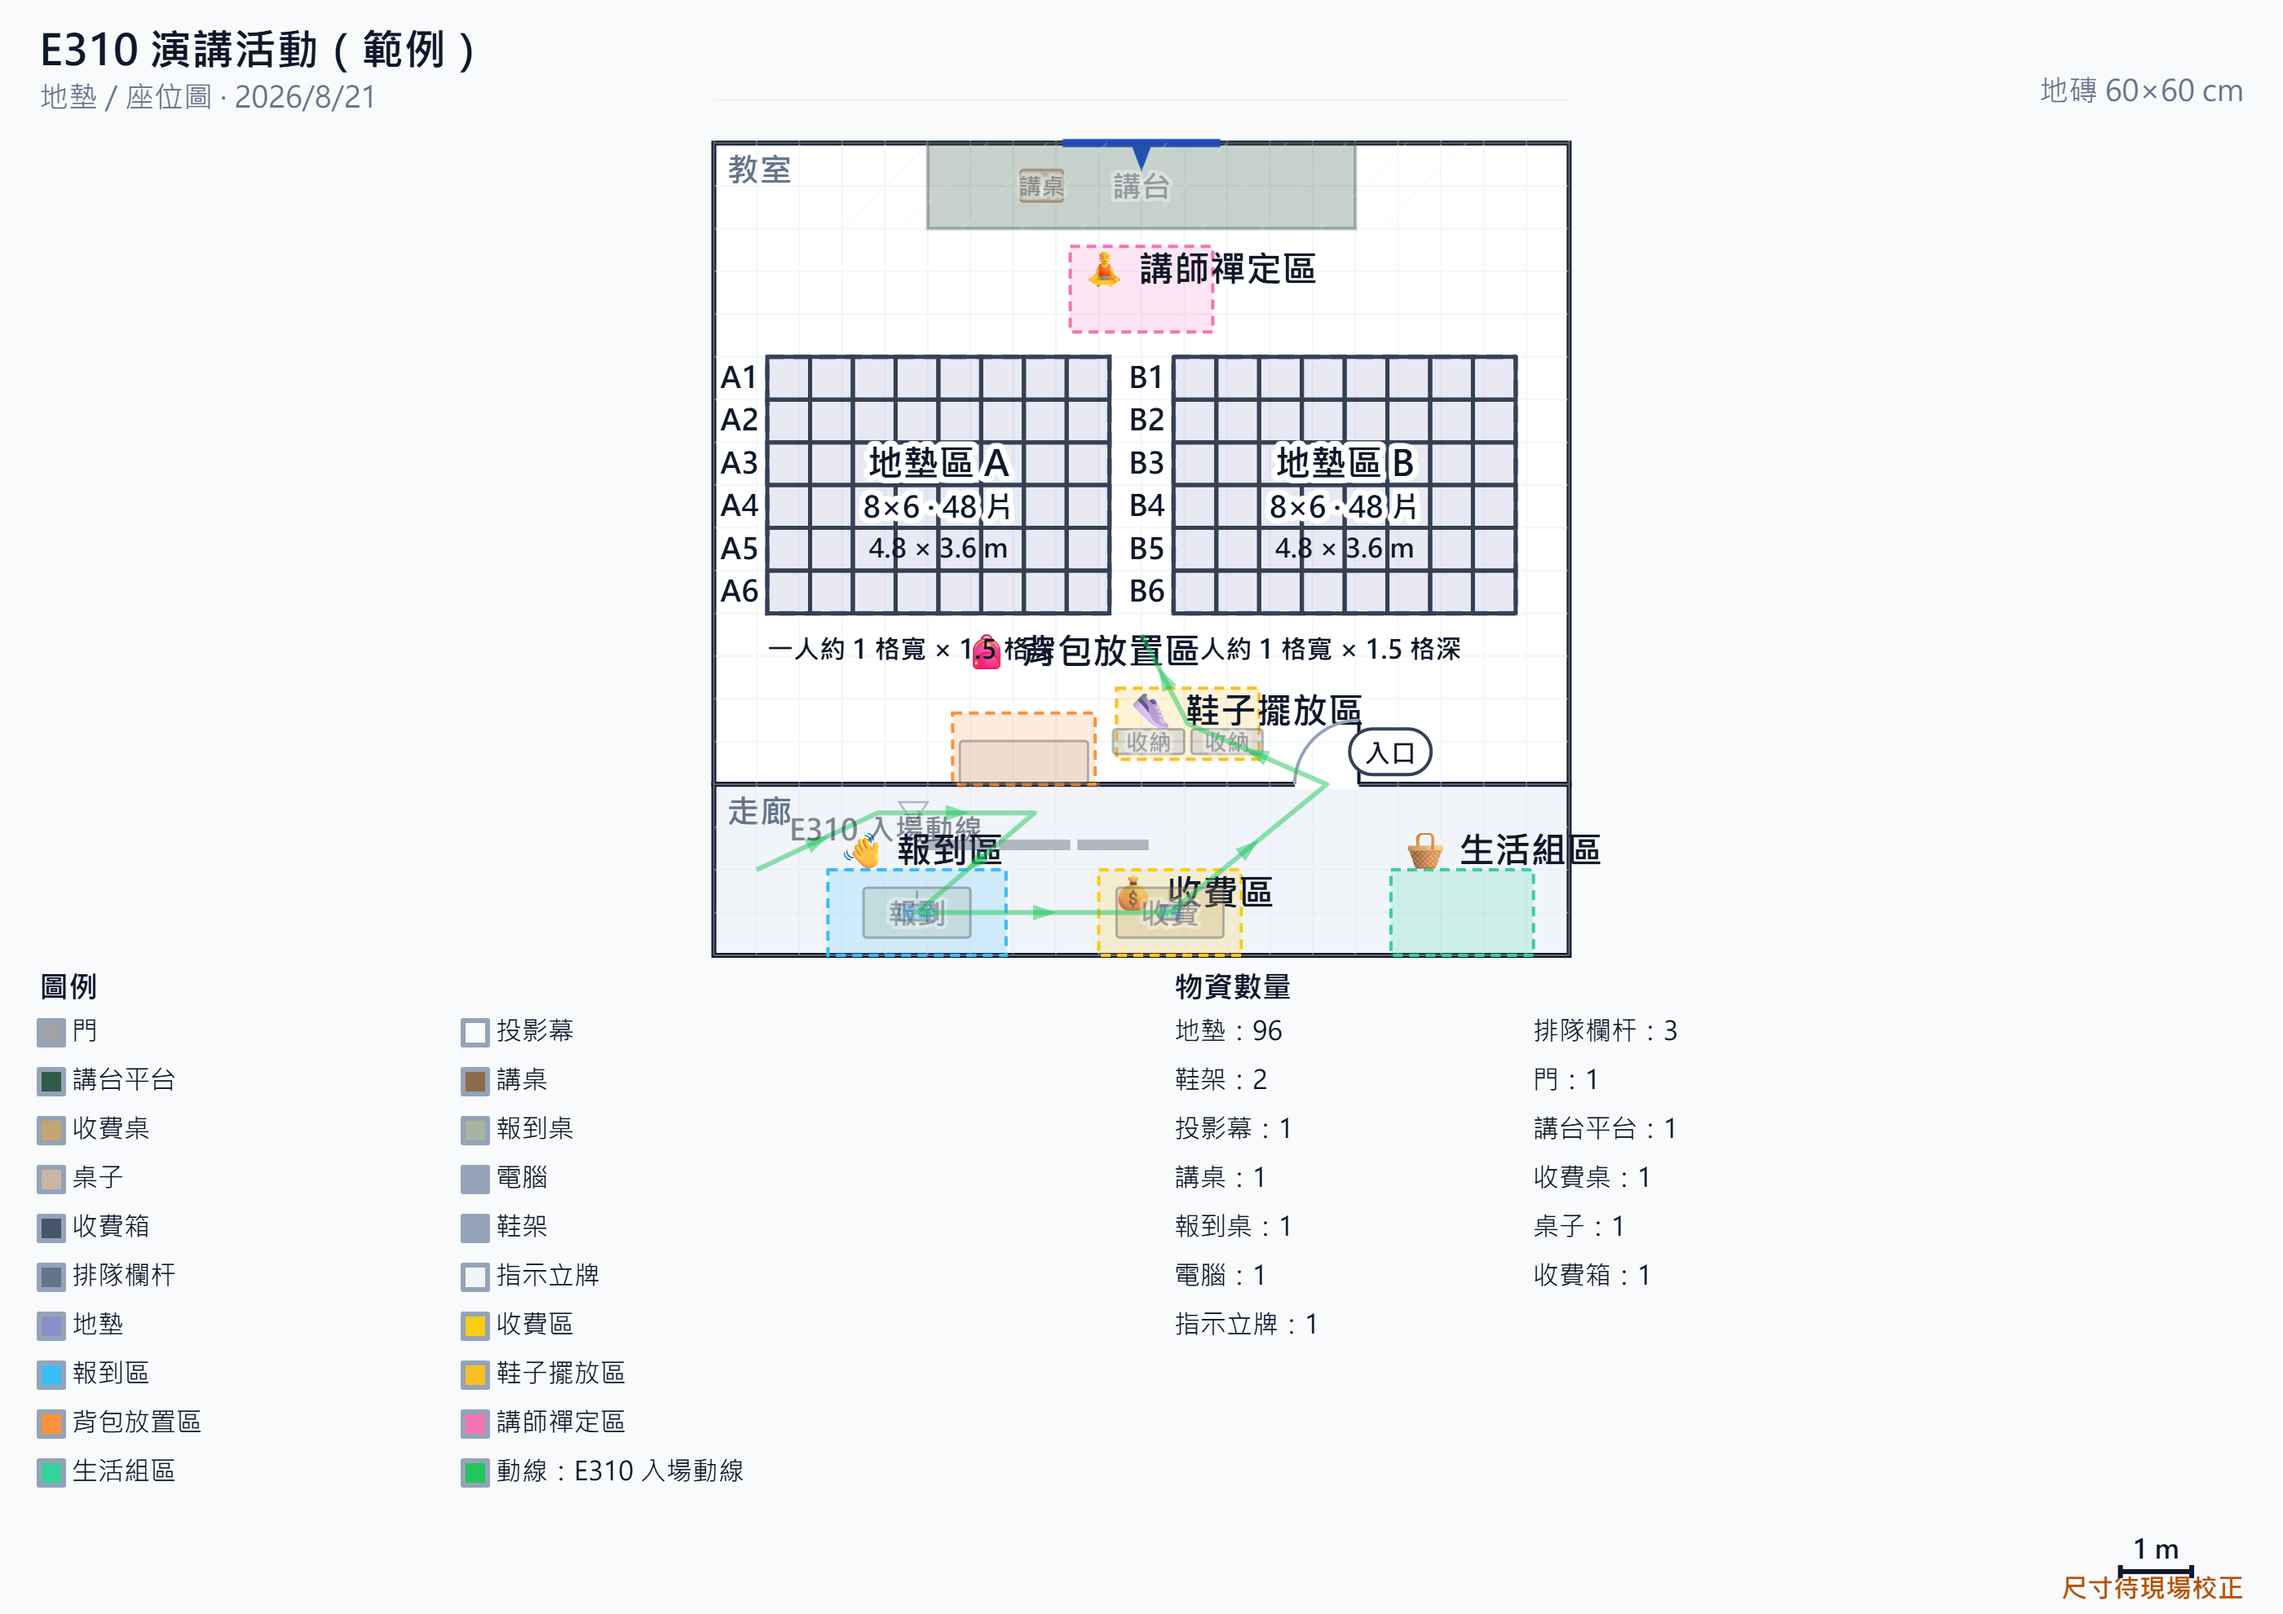
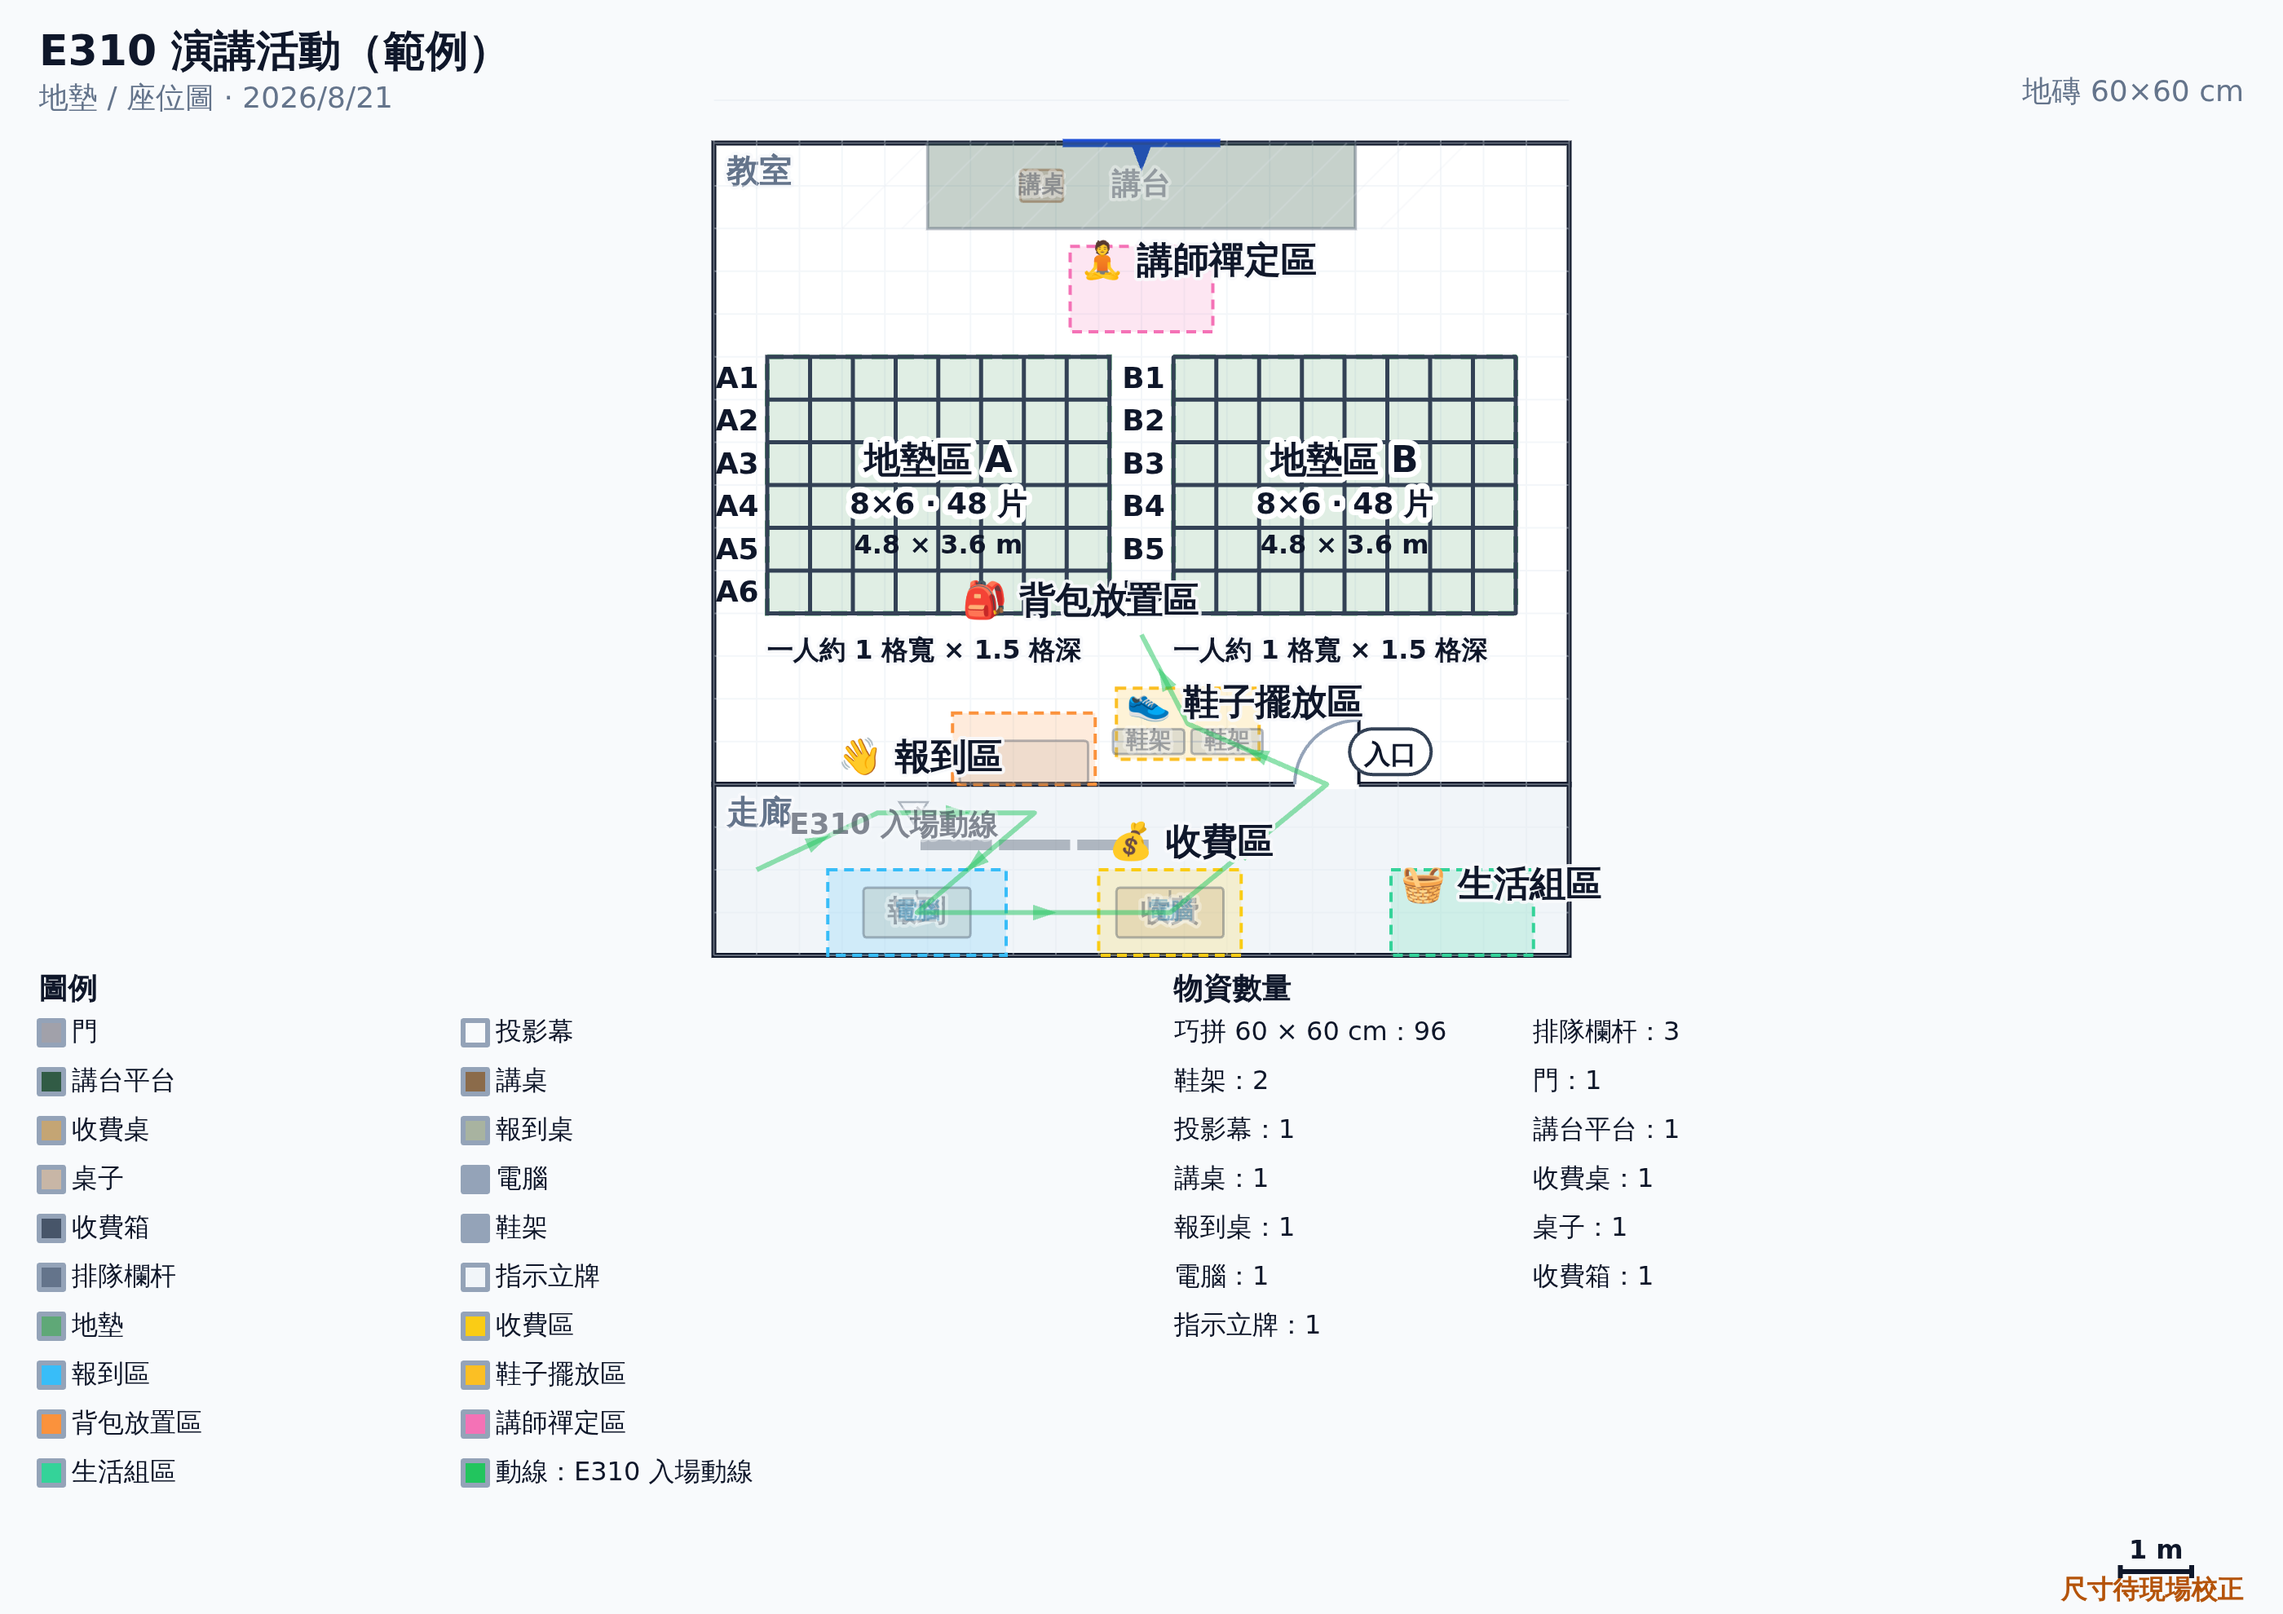
fix(export): keep the mat count on the 物資數量 column, regenerate the plan set
Caught by reading the regenerated A4 地墊/座位圖: my longer inventory name
(地墊（巧拼 60 × 60 cm）) ellipsized its row and took the ×96 count with it —
the one number the 場務組 needs off that page. When a preset names the real
material, that name now stands alone (巧拼 60 × 60 cm：96); a bare-size preset
still keeps the kind name in front.

The seat-pitch caption now goes through the shared label placer too, so the
two mat blocks' captions no longer land on each other or on 鞋子擺放區.

scripts/exportPlans.cjs writes straight into docs/release-1.0 so the evidence
set cannot drift from what the app produces, honours
PLAYWRIGHT_CHROMIUM_EXECUTABLE like the e2e config, and previews the phone
crops on a light sheet instead of the old near-black one.

docs/release-1.0/* regenerated: the 3D page is no longer a dark sheet among
white ones, mats read as the club's green 巧拼, and every zone title is legible.

diff --git a/src/export/constructionPlan.ts b/src/export/constructionPlan.ts
@@ -146,7 +146,11 @@ export function inventoryLines(project: Project): InventoryLine[] {
     const preset = entry.presets?.find(
       (p) => Math.abs(p.width - g.itemWidth) < 1e-6 && Math.abs(p.depth - g.itemDepth) < 1e-6,
     );
-    add(entry.icon, preset ? `${entry.name}（${preset.label}）` : entry.name, g.rows * g.cols);
+    // When the preset names the real material (巧拼), that name alone is what
+    // the 場務組 says out loud — and short enough that the count still fits the
+    // column. A bare-size preset keeps the kind name in front of it.
+    const named = preset && /[\u4e00-\u9fff]/.test(preset.label);
+    add(entry.icon, named ? preset.label : preset ? `${entry.name} ${preset.label}` : entry.name, g.rows * g.cols);
   }
   return [...byName.values()].sort((a, b) => b.count - a.count);
 }
@@ -706,7 +710,10 @@ function drawFieldGroup(ctx: CanvasRenderingContext2D, g: Project["groups"][numb
     }
     ctx.textAlign = "left";
     ctx.font = font("600 16px");
-    ctx.fillText("一人約 1 格寬 × 1.5 格深", x, y + h + 28);
+    const pitchText = "一人約 1 格寬 × 1.5 格深";
+    const pitchW = ctx.measureText(pitchText).width;
+    const pitchSpot = placeLabel(x, y + h + 12, pitchW, 20, 24);
+    planText(ctx, pitchText, pitchSpot.x, pitchSpot.y + 16);
   }
 
   // Two lines (name / spec) so a narrow block never ellipsizes the piece count.

diff --git a/test/fieldEvidence.test.ts b/test/fieldEvidence.test.ts
@@ -116,11 +116,13 @@ describe("S-07/S-08/S-09 unverified kit stays removable, never fixed furniture",
 describe("物資清單 names the material the 場務組 has to carry", () => {
   it("lists mat groups as 巧拼 60 × 60, not a generic 地墊", () => {
     const project = buildE310GoldenProject(venuePresetById("venue:tku-e310")!);
-    const matLine = inventoryLines(project).find((l) => l.name.includes("地墊"));
+    const matLine = inventoryLines(project).find((l) => l.name.includes("巧拼"));
     expect(matLine).toBeDefined();
-    // The old code emitted the placeholder "▫" icon and the bare kind name.
+    // The old code emitted the placeholder "▫" icon and the bare kind name 地墊.
     expect(matLine!.icon).not.toBe("▫");
-    expect(matLine!.name).toContain("巧拼");
+    expect(matLine!.name).toContain("60");
+    // Short enough that the count still fits the 物資數量 column.
+    expect(matLine!.name.length).toBeLessThanOrEqual(16);
     // The golden 60-person example lays a real field, not a handful of mats.
     expect(matLine!.count).toBeGreaterThan(50);
   });
